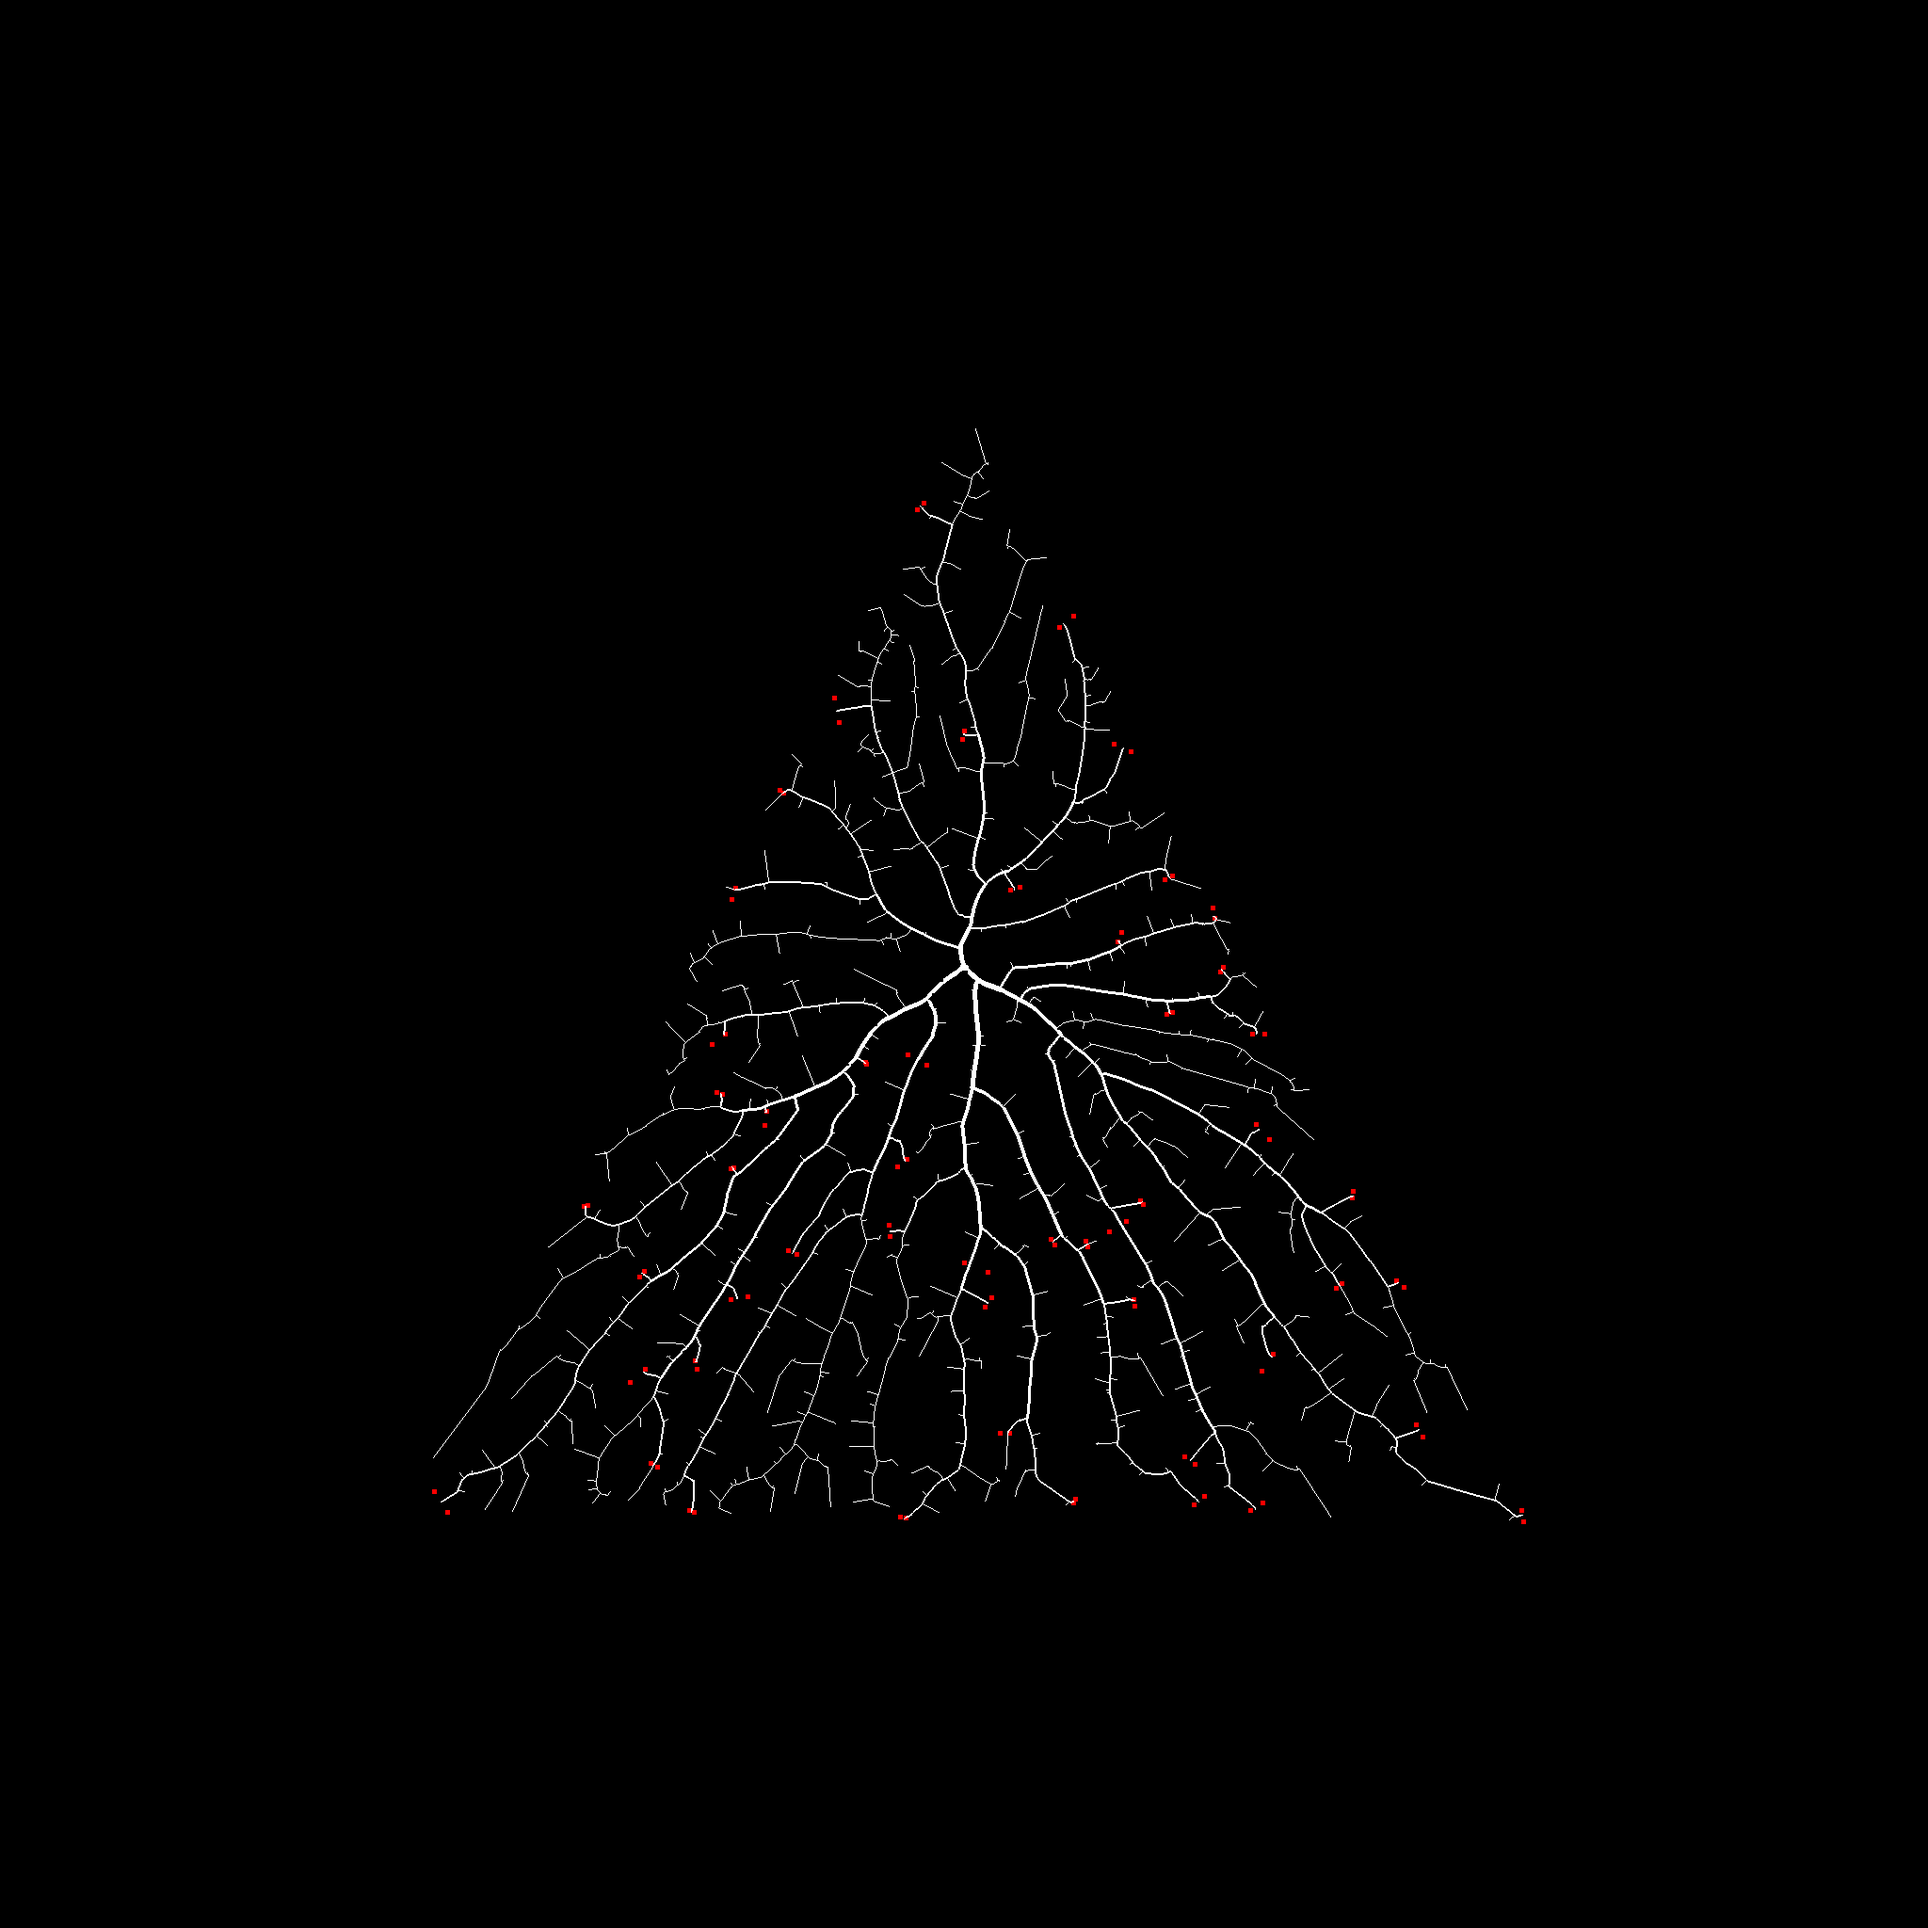
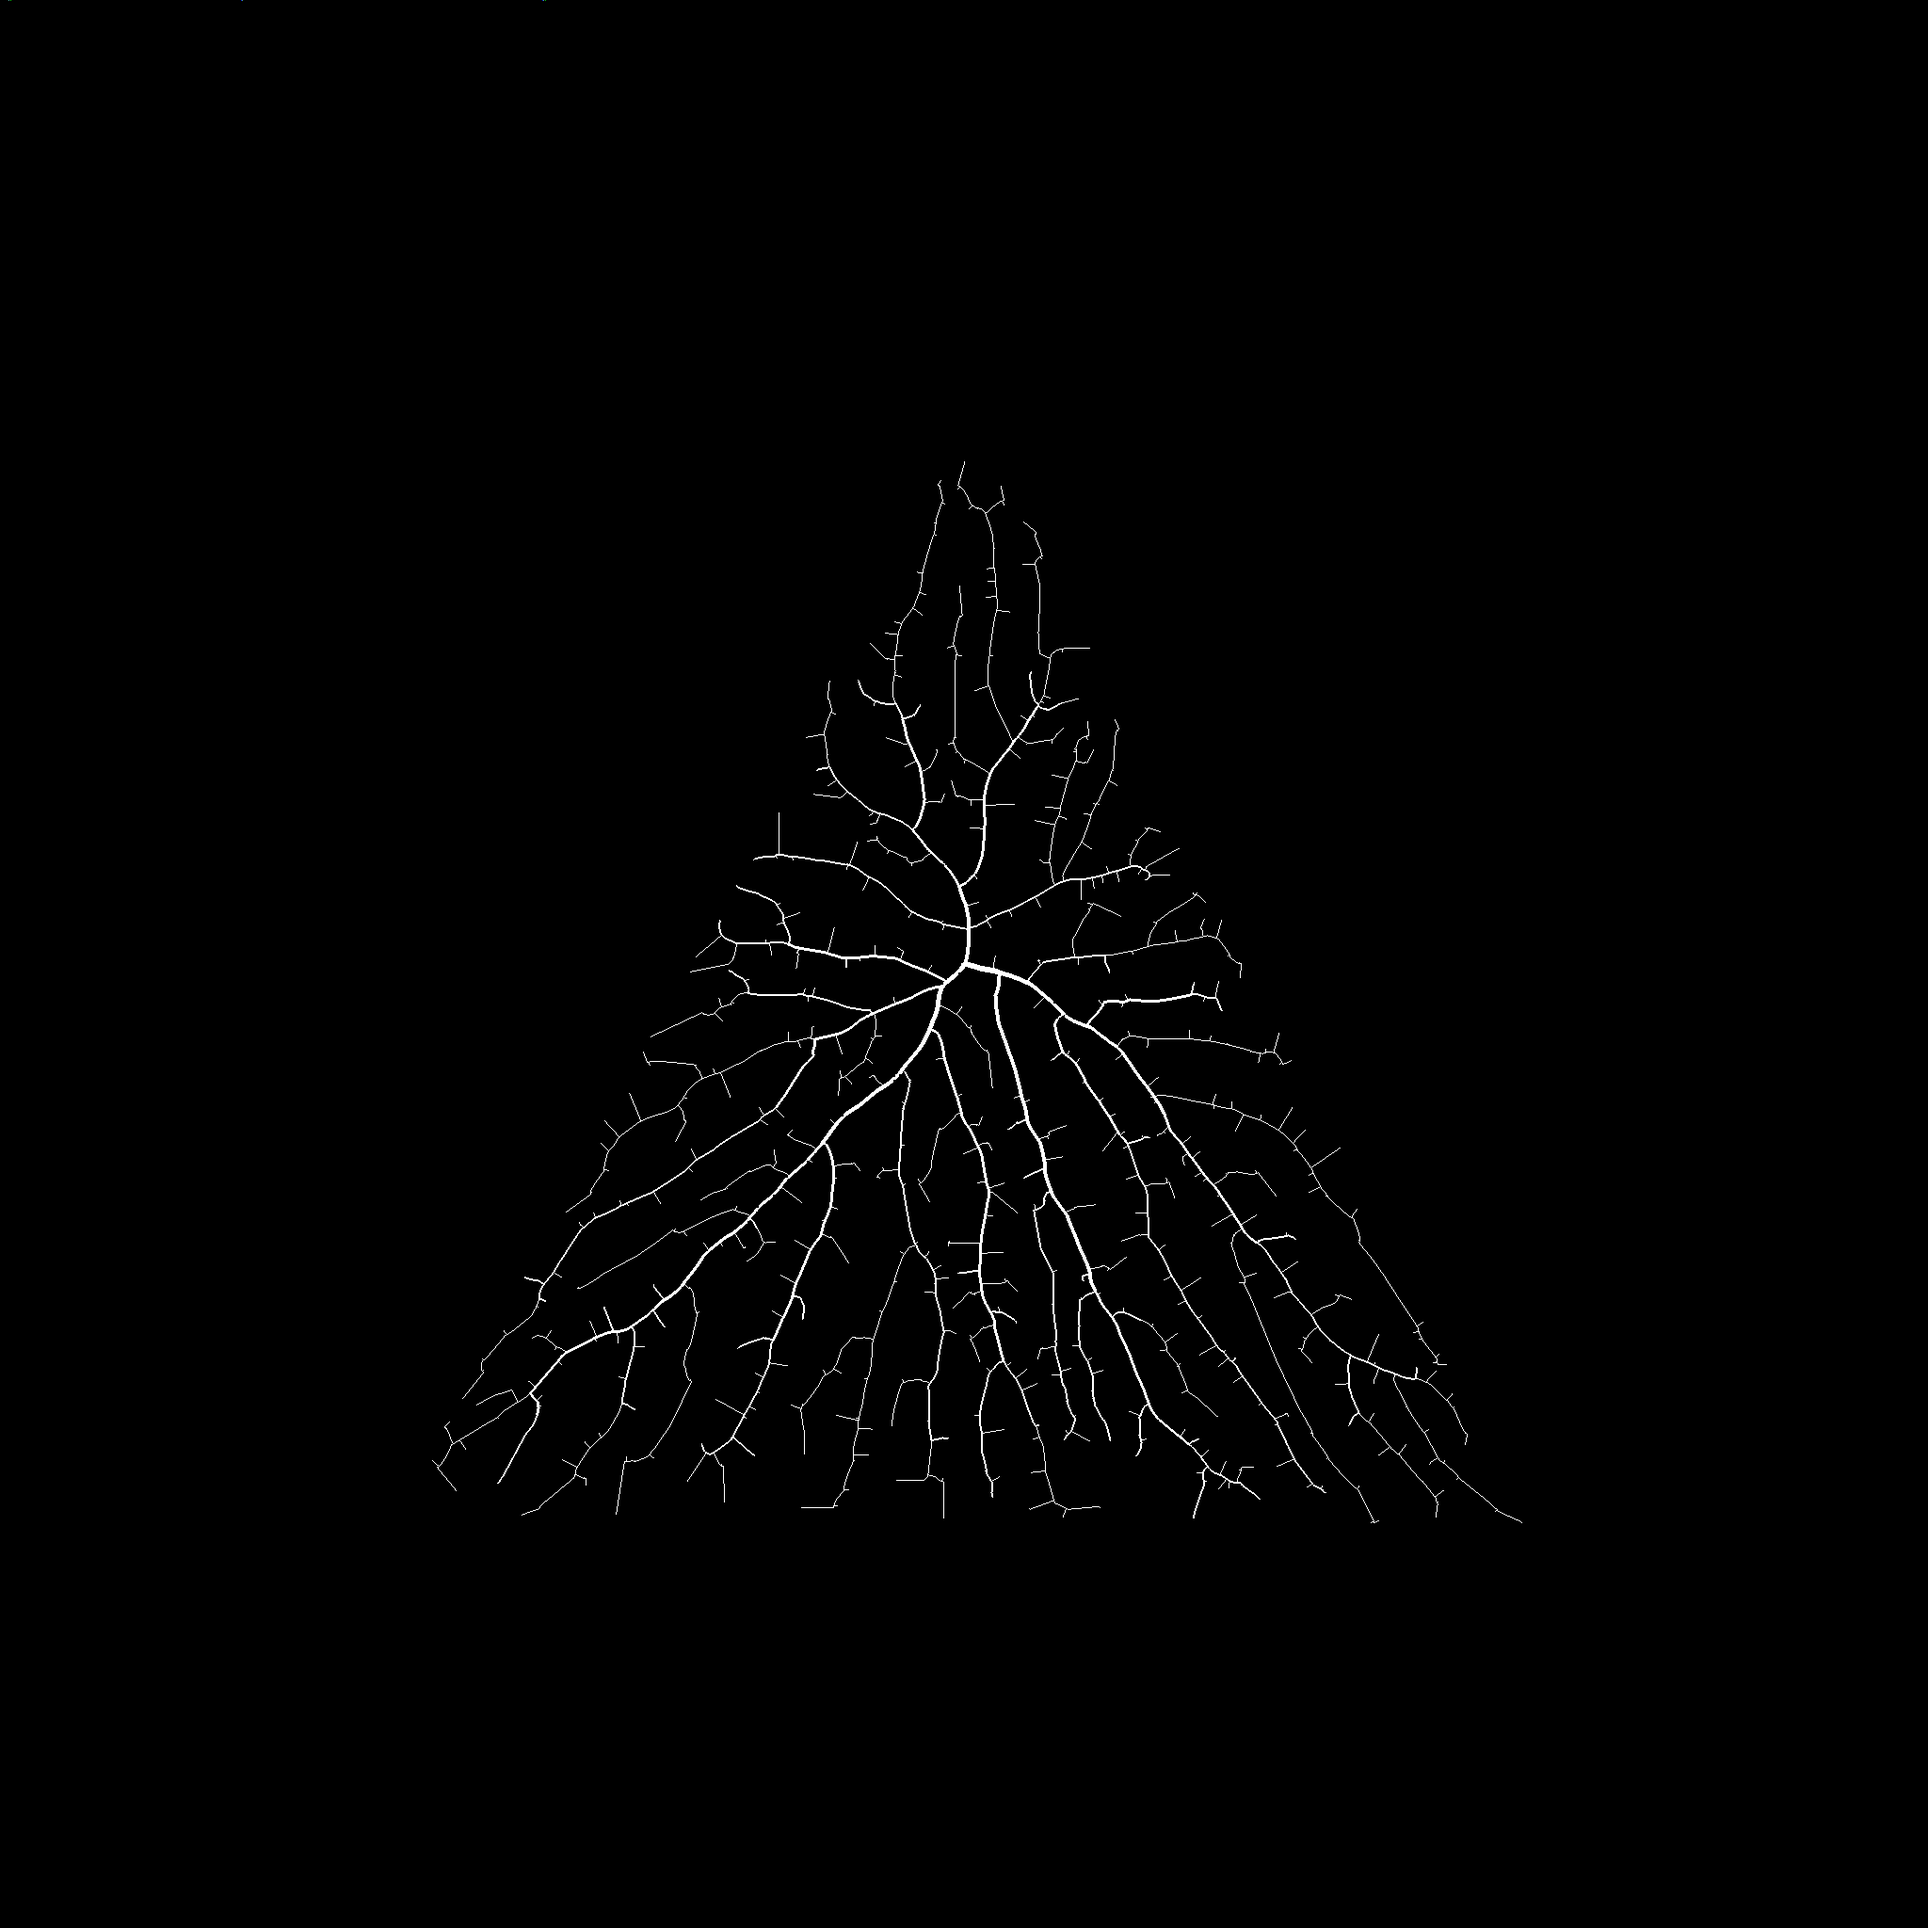
restructured project
Split the code files into include, lib, and app directories.

Additionally, turned the venation and node classes into a library called
growth.

diff --git a/include/growth/node.hpp b/include/growth/node.hpp
@@ -4,14 +4,18 @@
 #include <vector>
 #include <CGAL/Exact_predicates_inexact_constructions_kernel.h>
 
+namespace growth {
+
 typedef std::shared_ptr<struct node> node_ref;
 
 struct node {
+
     using kernel = CGAL::Exact_predicates_inexact_constructions_kernel;
     using point2 = kernel::Point_2;
 
     node(const point2& p, double base_width = 0.1)
         : position(p), base_width(base_width), width(base_width) {}
+
     ~node() = default;
 
     double update_width();
@@ -24,5 +28,7 @@ struct node {
     point2 position;
     double width;
     double base_width;
+
 };
 
+}

diff --git a/include/app.hpp b/include/app.hpp
@@ -12,7 +12,9 @@
 
 #include <GLFW/glfw3.h>
 
-#include "venation.hpp"
+#include "growth/venation.hpp"
+
+using namespace growth;
 
 class App {
     public:
@@ -51,7 +53,7 @@ class App {
         unsigned int width_ = 512;
         unsigned int height_ = 512;
         unsigned int timeout_ = 500;
-        bool show_attractors_ = true;
+        bool show_attractors_ = false;
         bool running_ = true;
         unsigned int mask_shades_ = 2;
         std::string out_file_;

diff --git a/lib/venation.cpp b/lib/venation.cpp
@@ -9,7 +9,9 @@
 #include <CGAL/squared_distance_2.h>
 #include <GLFW/glfw3.h>
 
-#include "venation.hpp"
+#include "growth/venation.hpp"
+
+using namespace growth;
 
 double rnd() {
     return static_cast <double> (rand()) / static_cast <double> (RAND_MAX);

diff --git a/include/growth/venation.hpp b/include/growth/venation.hpp
@@ -10,6 +10,8 @@
 
 #include "node.hpp"
 
+namespace growth {
+
 class venation {
     public:
         using kernel = CGAL::Exact_predicates_inexact_constructions_kernel;
@@ -82,3 +84,4 @@ class venation {
 
 };
 
+}

diff --git a/app/main.cpp b/app/main.cpp
@@ -24,9 +24,11 @@
 #include <GLFW/glfw3.h>
 
 #include "app.hpp"
-#include "venation.hpp"
+#include "growth/venation.hpp"
 
 namespace po = boost::program_options;
+
+using namespace growth;
 
 App app;
 

diff --git a/lib/node.cpp b/lib/node.cpp
@@ -1,6 +1,8 @@
 #include <cmath>
 
-#include "node.hpp"
+#include "growth/node.hpp"
+
+using namespace growth;
 
 /**
  * Update width by traversing the tree and computing the width

diff --git a/app/app.cpp b/app/app.cpp
@@ -9,6 +9,8 @@
 
 #include "app.hpp"
 
+using namespace growth;
+
 App& App::configure(unsigned int width, unsigned int height) {
     width_ = width;
     height_ = height;
